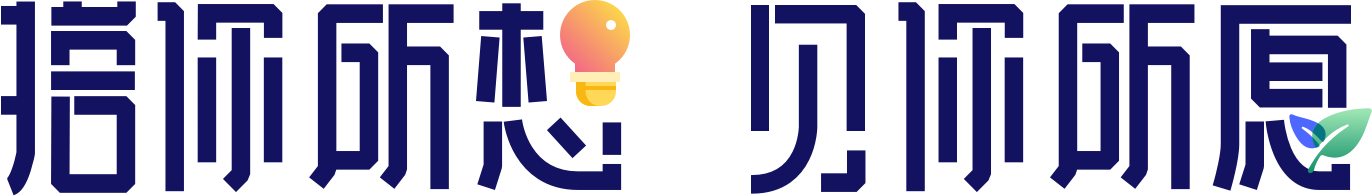
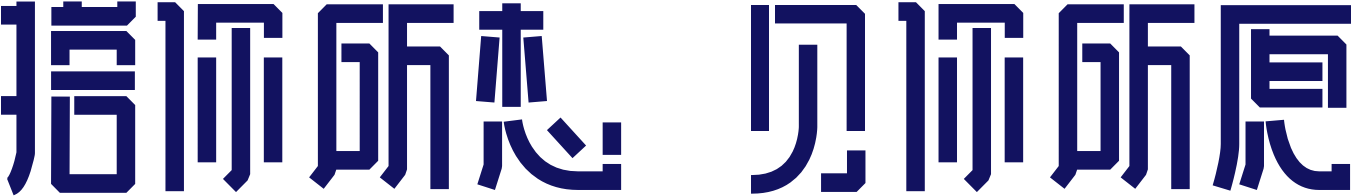
Update: change image

diff --git a/src/home/index.js b/src/home/index.js
@@ -28,6 +28,8 @@ import logoIntroduction from "../../public/home/logo-introduction.png";
 import designValue from "../../public/home/design-value.png";
 import designPrinciple from "../../public/home/design-principle.png";
 import visualPrinciple from "../../public/home/visual-principle.png";
+import staticBulb from "../../public/home/static-bulb.png";
+import staticLeaf from "../../public/home/static-leaf.png";
 import pic3 from "../../public/home/pic3.png";
 import pic4 from "../../public/home/pic4.png";
 import sense from "../../public/home/sense.png";
@@ -127,10 +129,25 @@ const SloganWrap = styled.div`
   align-items: center;
   padding-top: 140px;
 `;
-const ImgWrap = styled.img`
+const SloganImgWrap = styled.div`
+  position: relative;
+`;
+const SloganImg = styled.img`
   width: 647px;
   height: 96px;
   margin-bottom: 50px;
+`;
+const BulbWrap = styled.img`
+  width: 35px;
+  position: absolute;
+  left: 267px;
+  top: 0px;
+`;
+const LeafWrap = styled.img`
+  width: 41px;
+  position: absolute;
+  right: -10px;
+  top: 54px;
 `;
 
 const LugiaIntroduction = styled.div`
@@ -722,7 +739,12 @@ export default class Pages extends React.Component<any, any> {
               </HeadIndex>
             </Head>
             <SloganWrap>
-              <ImgWrap src={slogan} alt="搭你所想,见你所愿" />
+              <SloganImgWrap>
+                <SloganImg src={slogan} alt="搭你所想,见你所愿" />
+                <BulbWrap src={staticBulb} />
+                <LeafWrap src={staticLeaf} />
+              </SloganImgWrap>
+
               <Theme config={startButtonTheme}>
                 <Button
                   type="primary"
@@ -810,7 +832,6 @@ export default class Pages extends React.Component<any, any> {
             </ItemWrap>
             <ItemWrap>
               <ItemTitle>新增功能</ItemTitle>
-              {/*<ItemContent>*/}
               <VideoBoxWrap>
                 <VideoBox>
                   <iframe
@@ -823,8 +844,6 @@ export default class Pages extends React.Component<any, any> {
                   />
                 </VideoBox>
               </VideoBoxWrap>
-
-              {/*</ItemContent>*/}
             </ItemWrap>
           </Col>
           <Col span={1} md={{ span: 1 }} xl={{ span: 2 }} xxl={{ span: 3 }}>
@@ -835,13 +854,13 @@ export default class Pages extends React.Component<any, any> {
         <div style={{ height: "600px", background: "transparent" }}></div>
 
         {/*old*/}
-        <Row>
+        {/*<Row>
           <Col span={5} xl={{ span: 4 }} xxl={{ span: 5 }}>
             <Wrapper> </Wrapper>
           </Col>
           <Col span={14} xl={{ span: 16 }} xxl={{ span: 14 }}>
             <MiddleWrapper>
-              {/*<Line />*/}
+              <Line />
               <Head>
                 <Logo src={logo} alt="" />
                 <SearchBox>
@@ -987,7 +1006,7 @@ export default class Pages extends React.Component<any, any> {
           <Col span={5} xl={{ span: 4 }} xxl={{ span: 5 }}>
             <Wrapper> </Wrapper>
           </Col>
-        </Row>
+        </Row>*/}
       </React.Fragment>
     );
   }
